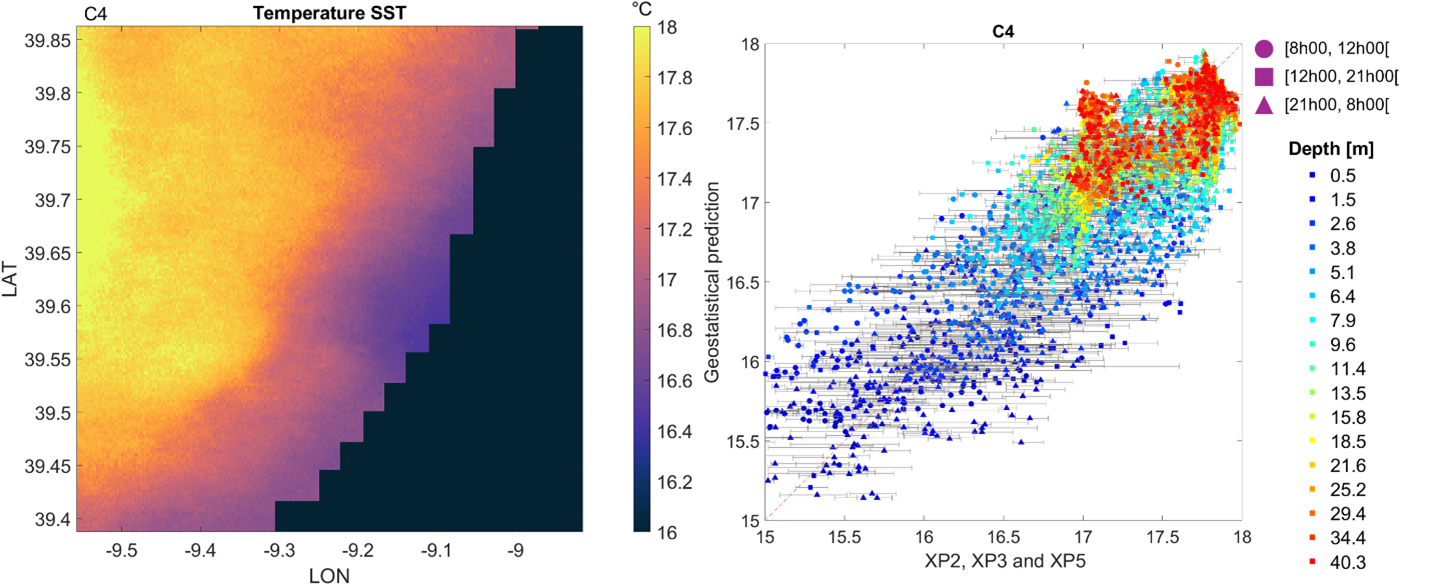
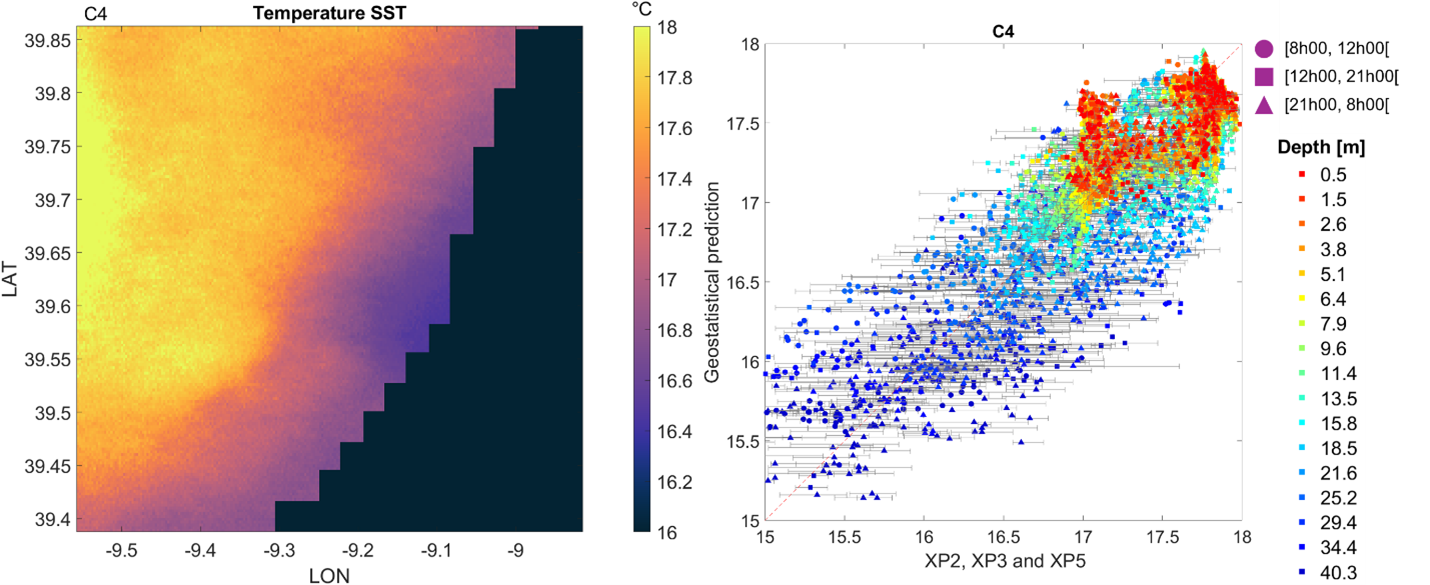
Updates from Overleaf

Changed region(s): [[0.8923, 0.2154, 0.9846, 1.0]]

diff --git a/review/answers-to-reviewers.tex b/review/answers-to-reviewers.tex
@@ -255,8 +255,7 @@ of the Methods section.
   cell (i.e. it is ``conditioned'') and this value is propagated in
   the neighbouring cells; see \cite{duarte2025} for addition
   details. See sub-section \ref{sec:r2-assim} under \ref{sec:r2-spec}
-  for additional information. \kc{State whether differences are
-    computed before or after assimilation}
+  for additional information. The differences shown in Figs 5 and in the supplementary material are computed with and without data assimilation, depending on the scenario.
 
   % the set of conditioning data for the geostatistical simulation
   % (i.e., considered local hard data for the geostatistical simulation)
@@ -414,13 +413,13 @@ of the Methods section.
     representation. Please verify the description against the
     colorbar.
     
-    \action: Regarding Fig.4, the SST field corresponds to the
+    \action: We thank the reviewer for these careful observations. 
+First, we corrected the trajectory labels. Regarding Fig.4, the SST field corresponds to the
     European North West Shelf-Iberia Biscay Irish Seas – High
     Resolution ODYSSEA Sea Surface Temperature Multi-sensor L3
     Observations Reprocessed product \cite{NWS_IBI_SST_L3}. We have
     added the corresponding reference in both the figure caption and
-    the main text.  \kc{AFD to check the colors since warmer colors
-      are shown in deeper depth.}
+    the main text. Finally, we also thank the reviewer for catching an inconsistency in Fig.~5: the colorbar description contained an error (whereas the caption was already correct). The figure has been rectified accordingly to ensure full consistency between the colorbar and its description.
 
   \item \reply: L362 / Fig. 6: A panel code is missing for Figure 6.
     Please also add an x-axis label to panel (c) of Figure 6.
@@ -678,13 +677,7 @@ the updated manuscript.
   That said, construction of background error covariances remains a
   rich topic.
 
-  \action: \kc{LA and AFD, can you check what our approach should be
-      here. I don't interpret this as a question but more as a comment,
-      but I'm not sure.
-
-      KR: I think some response is due, even if to acknowledge that
-      s/he might be right. Also there is a question here that needs to
-      be responded to.}
+  \action: The new samples' area of influence in the corrected background models is governed by the range of the variogram model (i.e., the spatial covariance matrix). In our configuration, the estimated variogram range is approximately 70 km laterally, with a temporal scale of about one season. When estimating the variogram model parameters, we consider the entire area of interest, which can be interpreted as the ‘average’ behavior of the system and therefore cannot capture local variations, such as those in the southern and northern regions of the Nazaré Canyon. Therefore, over- and/or underestimation of the variogram ranges for each region will result in higher RMSE than in the free run. 
 
   \end{enumerate}
 

diff --git a/results.tex b/results.tex
@@ -108,14 +108,17 @@ predictive accuracy, indicating that the assimilation of targeted
 measurements effectively constrains the thermal structure and captures
 ongoing physical transitions in the water column.
 
+
+
+
 \begin{figure}[!t]
   \centering
-  \subfigure[]{\label{fig:scatter_c}\includegraphics[scale=0.58]{fig/scatter_c.png}}
-  \subfigure[]{\label{fig:scatter_c4}\includegraphics[scale=0.58]{fig/scatter_c4.png}}
-  \subfigure[]{\label{fig:scatter_d}\includegraphics[scale=0.58]{fig/scatter_d.png}}
-  \subfigure[]{\label{fig:scatter_d4}\includegraphics[scale=0.58]{fig/scatter_d4.png}}
+  \subfigure[]{\label{fig:scatter_c}\includegraphics[scale=0.38]{fig/scatter_c.png}}
+  \subfigure[]{\label{fig:scatter_c4}\includegraphics[scale=0.38]{fig/scatter_c4.png}}
+  \subfigure[]{\label{fig:scatter_d}\includegraphics[scale=0.38]{fig/scatter_d.png}}
+  \subfigure[]{\label{fig:scatter_d4}\includegraphics[scale=0.38]{fig/scatter_d4.png}}
   \caption{Comparison between in-situ AUV temperature ($^{\circ}$C) observations
-    (31\textsuperscript{st} October) and model temperature ($^{\circ}$C) predictions for
+    (31\textsuperscript{st} October) and model temperature ($^{\circ}$C) %predictions for
     scenarios \textbf{C} \subref{fig:scatter_c}, \textbf{C4}
     (\subref{fig:scatter_c4}), \textbf{D} (\subref{fig:scatter_d}),
     and \textbf{D4} (\subref{fig:scatter_d4}). Shallower layers are
